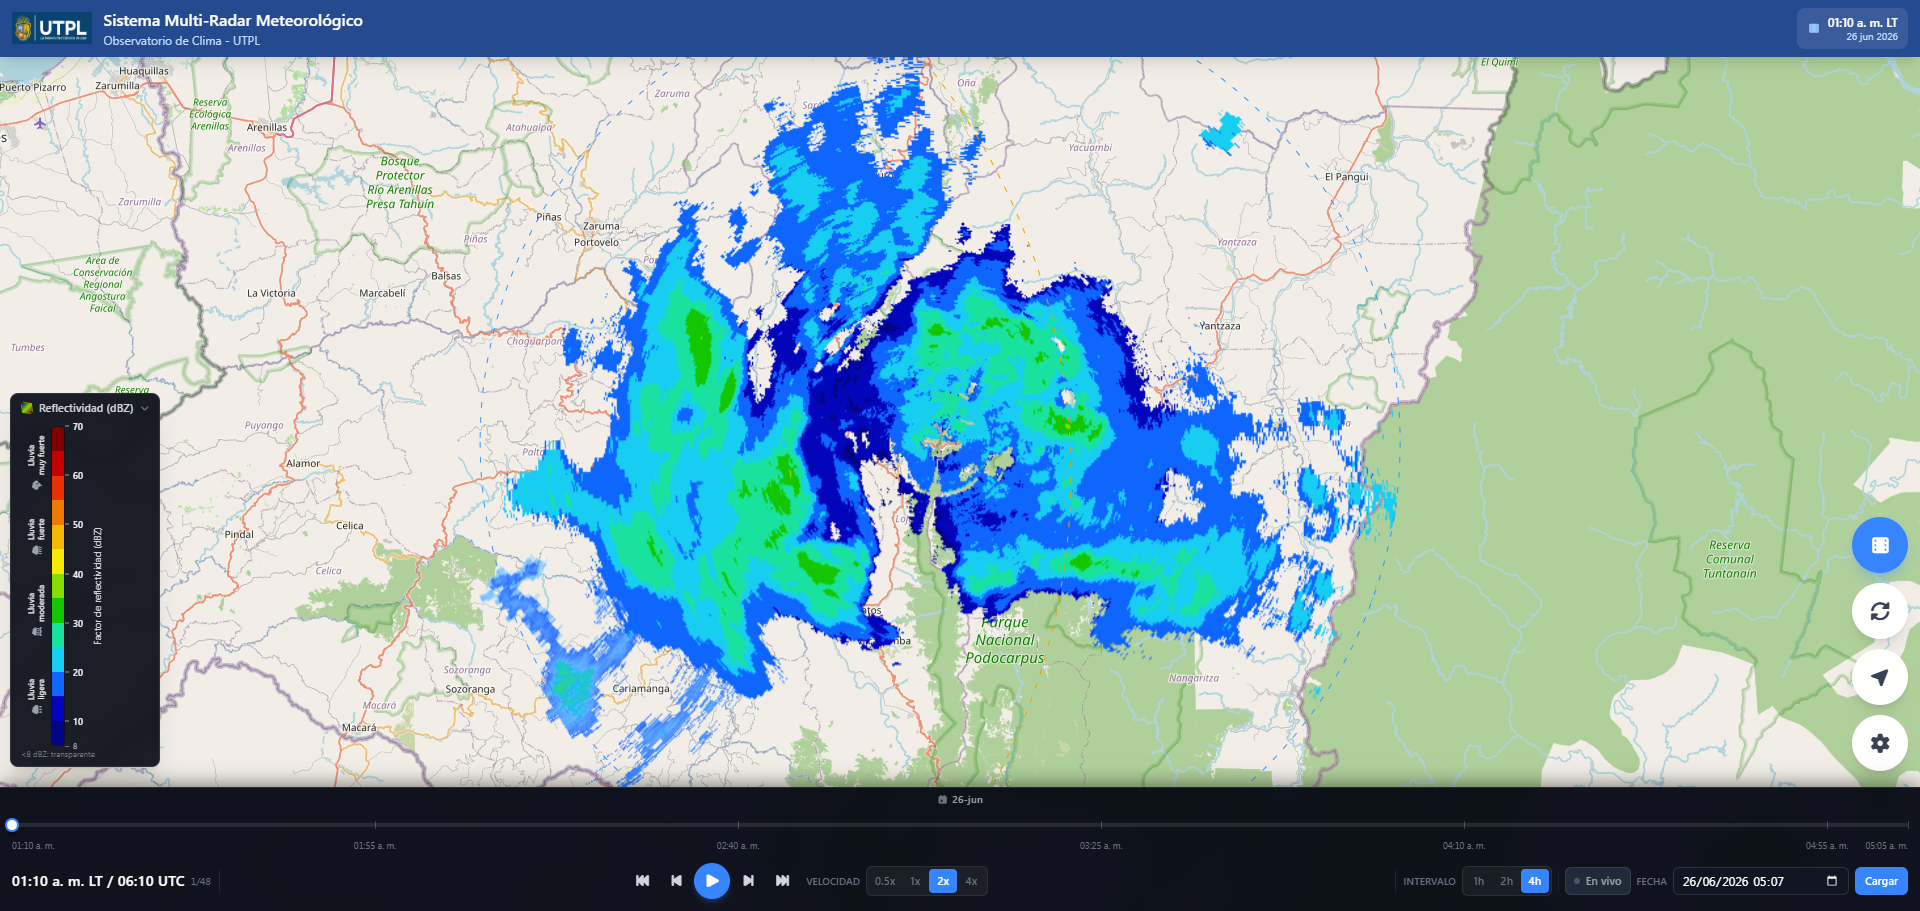
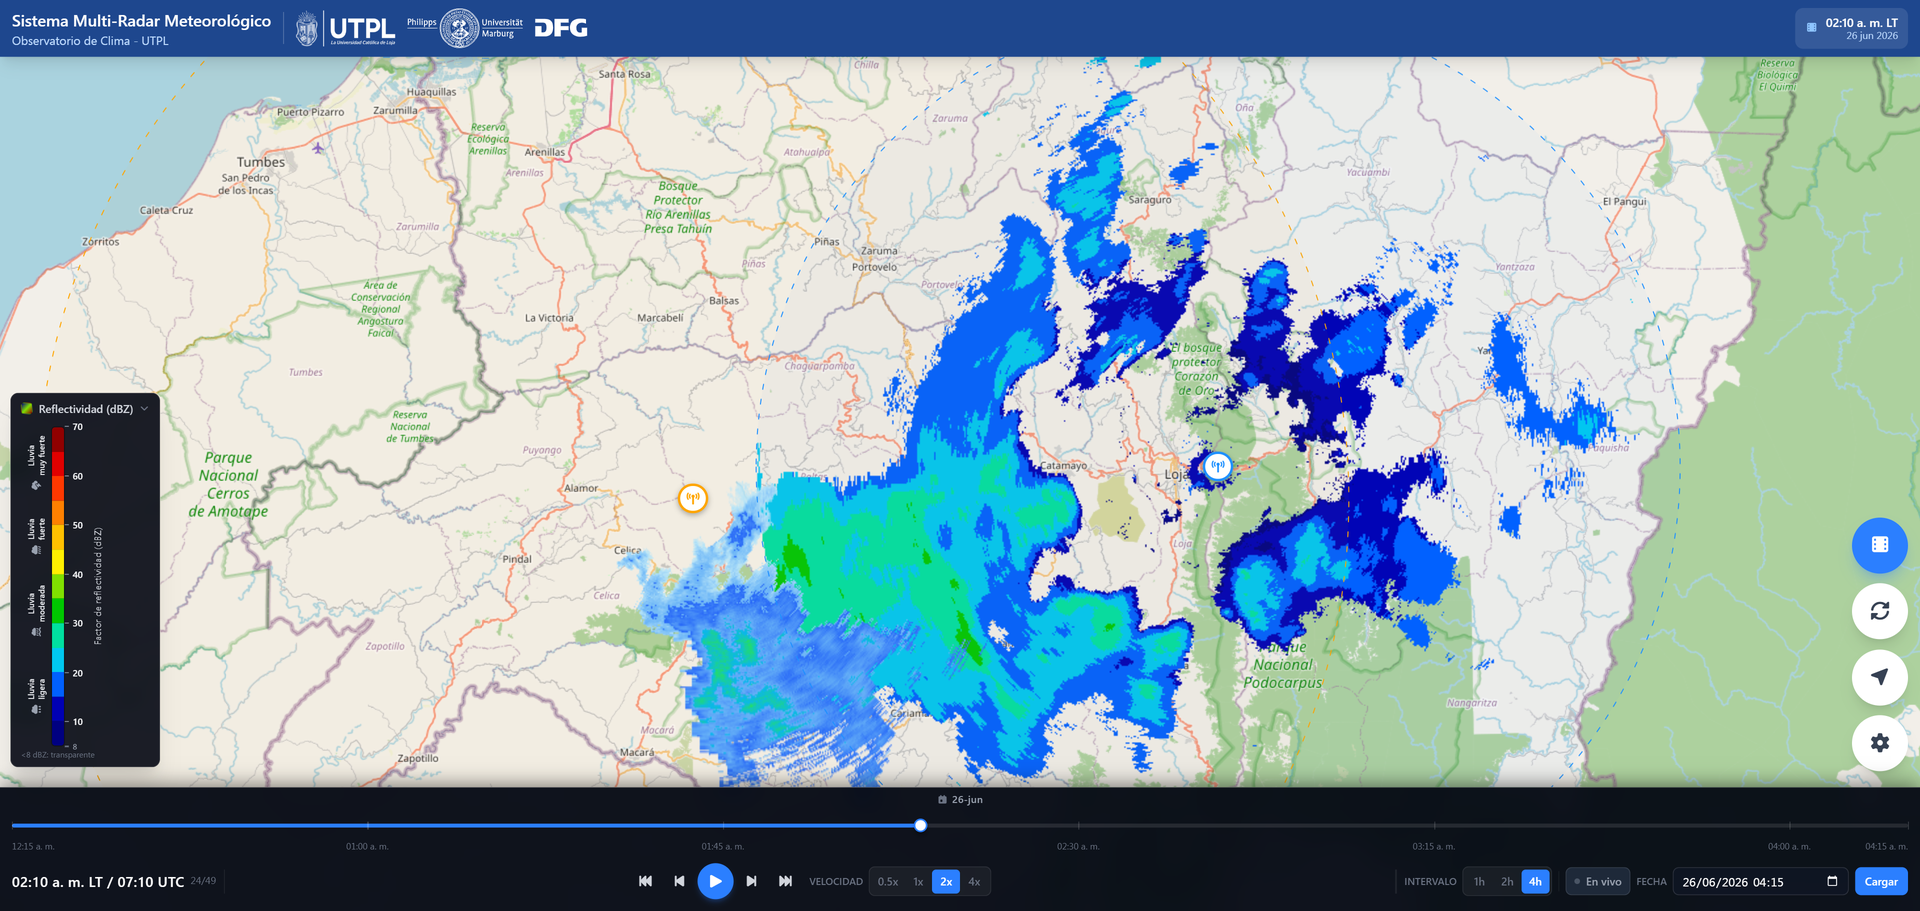
docs: README al día con el contenido real del repositorio (v1.1.1)
- Figura del visor: captura actual (Figura 5 del artículo, 02:10 LT / 07:10 UTC,
  escala de 13 clases), reducida a 1920 px; pie corregido y atribución OSM.
- Árbol de carpetas regenerado desde el listado real: raíz tamia-radar/, sin
  migrate_history.py ni VISOR/public/, con data_test/, DATA_LICENSE.txt,
  .gitignore y la estructura de VISOR/src.
- Cola de reintentos mencionada en la descripción de los nodos y en la fila del
  uploader del README de LOXX (ya estaba en el de GUAXX).
- Ejemplo de uso de generar_png_loxx.py con la ruta del archivo de prueba.
- Muestra GUAXX: intervalo horario (00:00-00:25 UTC, paso de 5 min).
- CITATION.cff y cita del README pasan a 1.1.1.

diff --git a/README.md b/README.md
@@ -34,7 +34,9 @@ The system is organized in three decoupled layers:
 
 1. **Edge nodes** (`EDGE/LOXX`, `EDGE/GUAXX`) — one per radar. A `watchdog`
    detects each new radar file, the processing pipeline converts it into a
-   georeferenced RGBA PNG, and an uploader POSTs it to the central API.
+   georeferenced RGBA PNG, and an uploader POSTs it to the central API. Frames
+   that cannot be uploaded (link down, API unreachable) are kept in a persistent
+   retry queue on disk and resent when the link returns.
 2. **Central API** (`API_RADAR`) — FastAPI (v2.2) + PostgreSQL. Receives PNGs,
    stores them under `data/radar/{radar_id}/DBZH/{year}/{julian_day}/`, exposes
    REST endpoints and pushes `NEW_RADAR_FRAME` messages over a WebSocket.
@@ -56,7 +58,8 @@ Both radars are operated by UTPL within the RadarNet-Sur network.
 
 *Web viewer showing the DBZH reflectivity of both radars overlaid simultaneously
 on the OpenStreetMap basemap during the precipitation event of 26 June 2026
-(01:10 LT / 06:10 UTC). Same screenshot as Figure 5 of the accompanying paper.*
+(02:10 LT / 07:10 UTC). Same screenshot as Figure 5 of the accompanying paper
+(reduced to 1920 px wide). Base map: © OpenStreetMap contributors (ODbL).*
 
 ### DBZH color scale (Furuno WR110 jet, 13 classes)
 
@@ -74,51 +77,65 @@ colors:       #000080 #0000B4 #0060FF #00C8F0 #00E0A0 #00C800 #80E000
 ## 2. Repository structure
 
 ```
-ZENODO_RADAR/
-├── docs/
-│   └── img/
-│       └── figura_5_visor.png     # web viewer screenshot (README §1, paper Figure 5)
+tamia-radar/
 ├── EDGE/
 │   ├── LOXX/                          # Edge node — Radar Loja (ODIM HDF5)
-│   │   ├── generar_png_loxx.py        # DBZH processing pipeline
-│   │   ├── loxx_dbzh_georeferenciado.py
-│   │   ├── radar_edge_uploader_loxx.py# watchdog + uploader (reads key from env/ini)
-│   │   ├── clutter_cache_dbzh.pkl  # precomputed clutter map
-│   │   ├── config.ini
-│   │   ├── uploader_config.ini.example
+│   │   ├── loxx_dbzh_georeferenciado.py  # DBZH extraction, clutter correction, projection
+│   │   ├── generar_png_loxx.py        # DBZH processing pipeline (one .h5.gz -> PNG)
+│   │   ├── radar_edge_uploader_loxx.py   # watchdog + uploader + retry queue
+│   │   ├── clutter_cache_dbzh.pkl     # precomputed clutter map
+│   │   ├── config.ini                 # processing configuration
+│   │   ├── uploader_config.ini.example   # uploader template (key, URL, paths)
 │   │   ├── requirements.txt
 │   │   ├── README.md
-│   │   └── data_test/                 # example input frames (see §5)
+│   │   ├── .gitignore
+│   │   └── data_test/                 # example input frames (see §5), CC BY 4.0
+│   │       ├── 20260626/              # 7 frames of the 26 June 2026 event
+│   │       ├── clutter_data/          # 5 reference frames (1 Dec 2025)
+│   │       └── DATA_LICENSE.txt
 │   └── GUAXX/                         # Edge node — Radar Celica (NetCDF4)
-│       ├── generar_png_radar.py       # DBZH processing pipeline
-│       ├── radar_edge_uploader_guaxx.py
-│       ├── config.ini                 # no plaintext secrets
-│       ├── .env.example
-│       ├── README.md
+│       ├── generar_png_radar.py       # DBZH processing pipeline (one .nc4 -> PNG)
+│       ├── radar_edge_uploader_guaxx.py  # watchdog + uploader + retry queue
+│       ├── config.ini                 # radar, processing and geo configuration
+│       ├── .env.example               # node environment template (key, URL)
 │       ├── requirements.txt
-│       └── data_test/                 # example .nc4 frames
+│       ├── README.md
+│       ├── .gitignore
+│       └── data_test/                 # 6 example .nc4 frames (see §5), CC BY 4.0
+│           └── DATA_LICENSE.txt
 ├── API_RADAR/                         # Central API (FastAPI + PostgreSQL)
 │   ├── main.py                        # endpoints + WebSocket
-│   ├── database.py  models.py
-│   ├── .env.example
+│   ├── database.py  models.py  __init__.py
+│   ├── .env.example                   # DATABASE_URL, RADAR_API_KEY
 │   └── requirements.txt
-├── BD/                               # Database
-│   ├── schema.sql
-│   └── migrate_history.py
-├── VISOR/                            # Web viewer (React + Vite + Leaflet)
-│   ├── src/  public/  index.html
+├── BD/
+│   └── schema.sql                     # PostgreSQL schema + radar seed rows
+├── VISOR/                             # Web viewer (React 19 + Vite + Leaflet)
+│   ├── src/
+│   │   ├── components/                # Map, Sidebar, AnimationBar, ColorLegend, Header, FABs, common
+│   │   ├── hooks/                     # useRadarData, useAnimation, useWebSocketUpdates, ...
+│   │   ├── services/                  # radarService (REST), websocketClient, imageCache
+│   │   ├── store/                     # Zustand store
+│   │   ├── config/  utils/            # radar config, julian-date and freshness helpers
+│   │   ├── App.jsx  main.jsx  index.css
+│   ├── index.html
 │   ├── package.json  package-lock.json
 │   ├── vite.config.js  eslint.config.js
-│   └── .env.example
+│   ├── .env.example                   # VITE_API_BASE
+│   └── .gitignore
 ├── data/
-│   └── evaluation/                   # measurement records of the paper's evaluation (see §6)
-│       ├── README.md                 # data dictionary
-│       ├── reproduce_key_figures.py  # recomputes every figure of the Results section
-│       ├── DATA_LICENSE.txt          # CC BY 4.0
-│       └── *.csv                     # 11 record files
+│   └── evaluation/                    # measurement records of the paper's evaluation (see §6)
+│       ├── README.md                  # data dictionary
+│       ├── reproduce_key_figures.py   # recomputes every figure of the Results section
+│       ├── DATA_LICENSE.txt           # CC BY 4.0
+│       └── *.csv                      # 11 record files
+├── docs/
+│   └── img/
+│       └── figura_5_visor.png         # web viewer screenshot (README §1, paper Figure 5)
 ├── CITATION.cff
-├── LICENSE                           # MIT (source code)
-└── README.md                         # this file
+├── LICENSE                            # MIT (source code)
+├── .gitignore
+└── README.md                          # this file
 ```
 
 `node_modules/` and `dist/` are not shipped — regenerate them with
@@ -174,7 +191,7 @@ python radar_edge_uploader_loxx.py
 Process a single stored frame without the watchdog (uses `data_test/`):
 
 ```bash
-python generar_png_loxx.py   # see the script header for CLI options
+python generar_png_loxx.py data_test/20260626/1003_20260626_034500.h5.gz
 ```
 
 GUAXX is analogous (`EDGE/GUAXX`, uses `.env` / `.env.example`; see its
@@ -203,7 +220,8 @@ without access to the live radars:
   clutter-correction figure.
 - **LOXX** `data_test/clutter_data/` — 5 frames used to illustrate clutter-map
   computation (`clutter_cache_dbzh.pkl` is already provided).
-- **GUAXX** `data_test/` — 6 NetCDF4 frames (2 April 2025).
+- **GUAXX** `data_test/` — 6 NetCDF4 frames of 2 April 2025 (00:00–00:25 UTC,
+  5-min step).
 
 These example datasets are licensed under **CC BY 4.0** (see the
 `DATA_LICENSE.txt` file in each `data_test/` directory), separately from the
@@ -248,7 +266,7 @@ file) and this software deposit:
 
 ```
 Quiñones-Cuenca, S.; Fries, A.; Quiñones-Cuenca, M.; Bendix, J. TAMIA: Edge
-Computing System for Real-Time Weather Radar Reflectivity (v1.1.0). Zenodo, 2026.
+Computing System for Real-Time Weather Radar Reflectivity (v1.1.1). Zenodo, 2026.
 https://doi.org/10.5281/zenodo.22308494
 ```
 

diff --git a/EDGE/LOXX/README.md b/EDGE/LOXX/README.md
@@ -15,7 +15,7 @@ Coverage: ~70 km.
 |------|---------|
 | `loxx_dbzh_georeferenciado.py` | Core module: DBZH extraction, clutter correction, 2-D median filter, polar→Cartesian projection with WGS84 bounds. |
 | `generar_png_loxx.py` | Processing pipeline. Reads one `.h5.gz`, produces an RGBA PNG rasterized directly from the Cartesian grid with PIL (Furuno WR110 "v8" 13-class color scale). |
-| `radar_edge_uploader_loxx.py` | `watchdog` service: on each new file, calls the pipeline and uploads the PNG to the API (API key read from environment / ini, never hardcoded). |
+| `radar_edge_uploader_loxx.py` | `watchdog` service: on each new file, calls the pipeline and uploads the PNG to the API (API key read from environment / ini, never hardcoded). Failed uploads (link down, API unreachable) are appended to a persistent retry queue (`upload_retry_queue.json` in the output directory) and resent at start-up and before each new frame, so no frame is lost during an outage. |
 | `clutter_cache_dbzh.pkl` | Precomputed clutter map used by the pipeline. |
 | `config.ini` | Processing configuration (paths, thresholds, cache file, clutter regeneration). |
 | `uploader_config.ini.example` | Template for the uploader configuration (copy to `uploader_config.ini`, git-ignored). |
